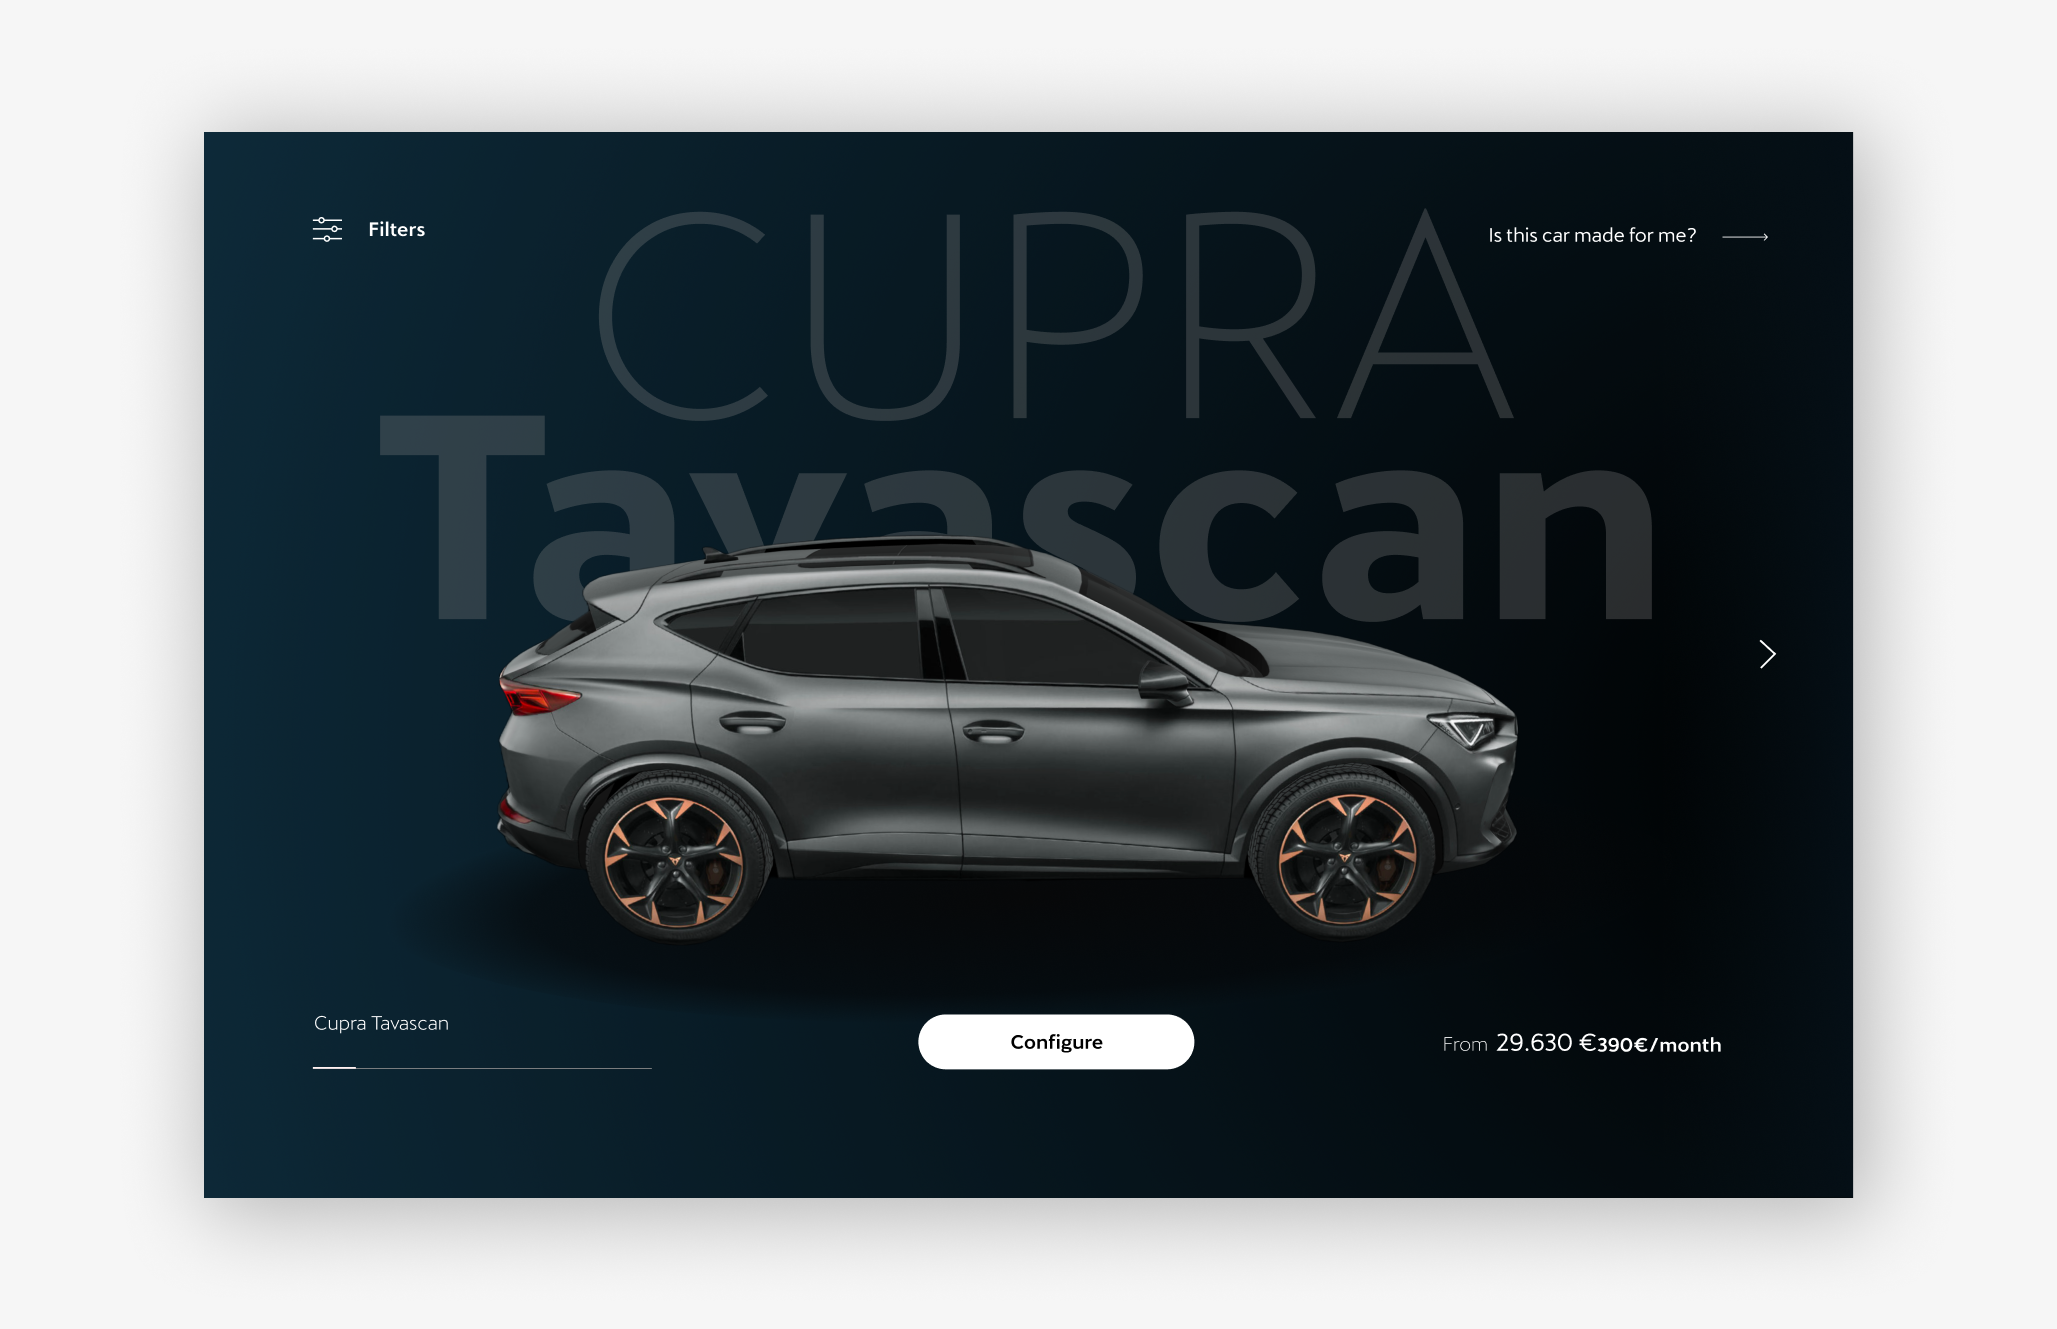
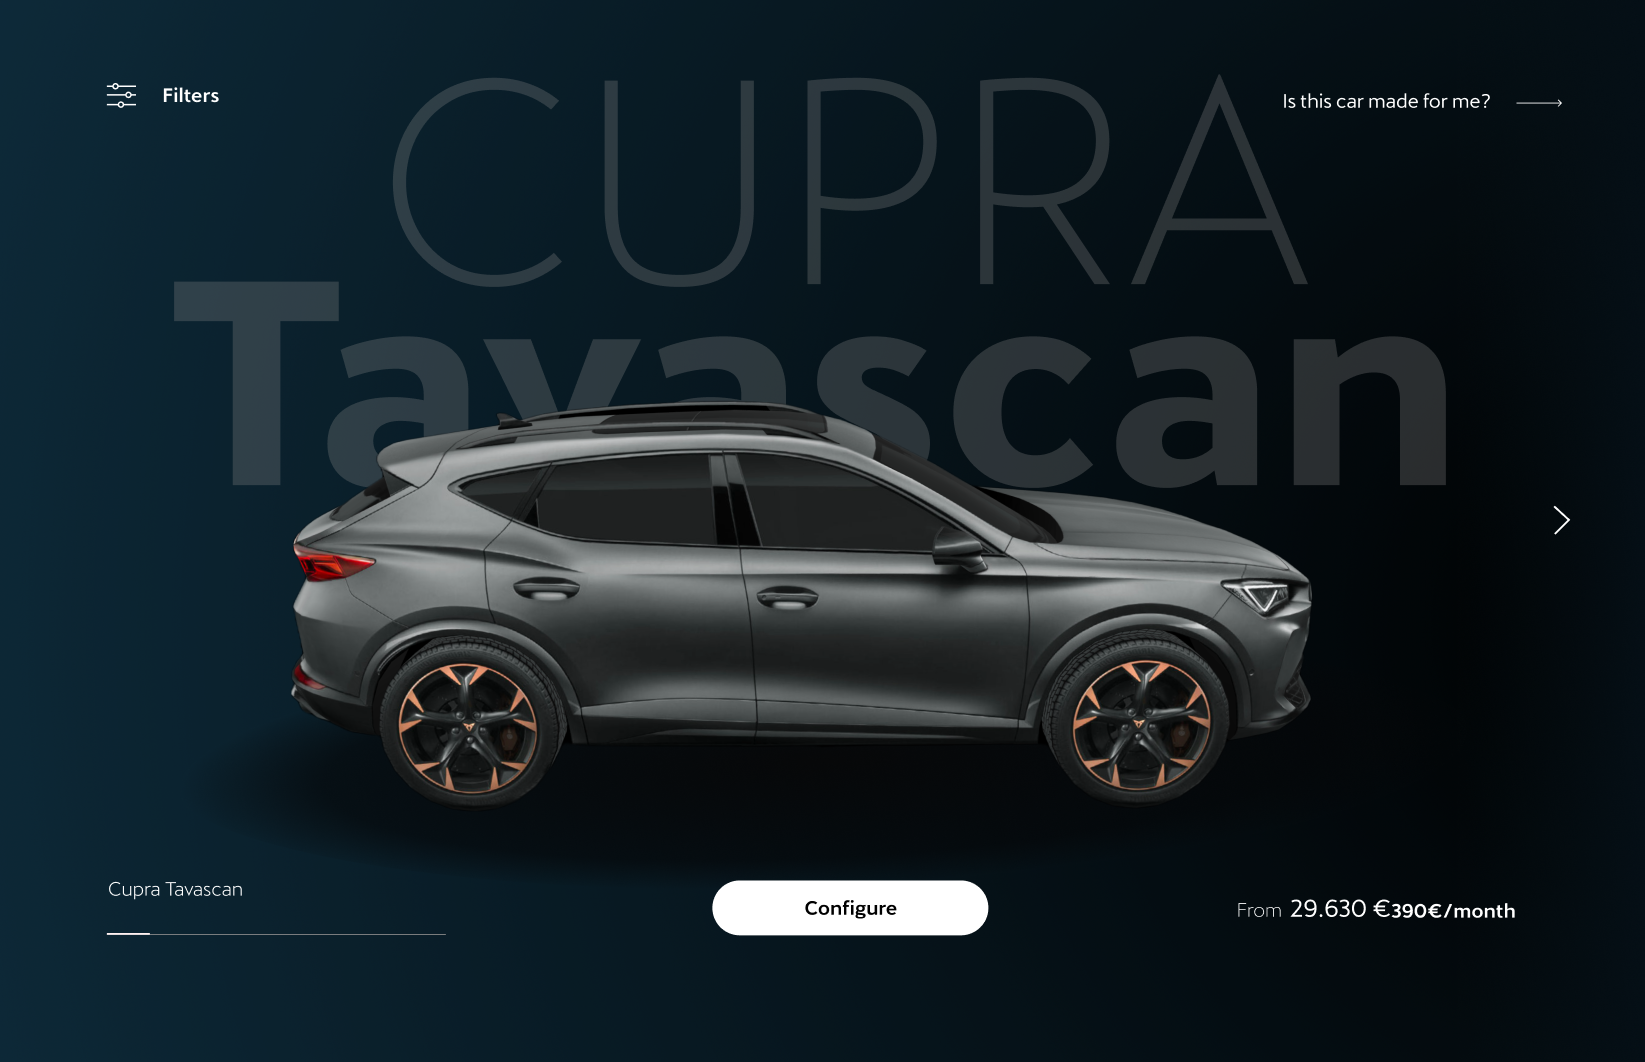
Rewrite Cupra case storytelling and crop configurator frames.
Give the Cupra page a clear narrative across configurator, SEAT and City Garage, fold the vehicle vision into Cupra HUX, and remove the white borders from the configurator screens.

diff --git a/content/cases/index.ts b/content/cases/index.ts
@@ -258,6 +258,27 @@ export const caseStudies: CaseStudy[] = [
       },
       {
         type: "text",
+        eyebrow: "Future vehicle",
+        heading: "A cabin built around instinct",
+        body: [
+          "The task was not to redesign the car, but to reimagine the role it plays in people’s lives — orchestrating emotion, performance and technology into a cohesive ecosystem.",
+          "Inside the vehicle, the experience is distilled into clear forms: a sculpted console, warm copper light, and a crystalline interface that feels like an extension of Cupra’s instinctive character.",
+        ],
+      },
+      {
+        type: "image",
+        src: "/work/cupra-hux/vehicle-exterior.jpg",
+        alt: "Cupra future vehicle exterior in a dark studio",
+        caption: "Exterior",
+      },
+      {
+        type: "image",
+        src: "/work/cupra-hux/vehicle-interior.jpg",
+        alt: "Cupra future vehicle interior with triangular crystal interface",
+        caption: "Interior",
+      },
+      {
+        type: "text",
         eyebrow: "Outcome",
         heading: "Innovation and emotion, told as one journey",
         body: [
@@ -294,11 +315,11 @@ export const caseStudies: CaseStudy[] = [
   {
     slug: "cupra",
     number: "03",
-    title: "Cupra / SEAT Digital Platforms",
+    title: "Cupra Car Configurator",
     shortTitle: "Cupra",
     client: "Cupra / Seat Digital Platforms",
     year: "2023",
-    tagline: "Sculpting a performance brand across its digital ecosystem",
+    tagline: "Reimagining the future of Cupra’s digital experiences",
     cover: "/work/cupra/configurator-1.png",
     accent: "#c9a227",
     theme: "dark",
@@ -308,11 +329,11 @@ export const caseStudies: CaseStudy[] = [
       "UX/UI Design",
       "Visual Design",
     ],
-    details: ["Frog Design", "3 people team", "1 year duration"],
+    details: ["Frog Design", "3 people team", "1.5 year collaboration"],
     intro: [
-      "Initially, our approach involved aligning with digital platforms, conducting field interviews, benchmarking exercises, and conducting a comprehensive brand audit. These efforts were aimed at gaining a deeper understanding of the business landscape and identifying opportunities for innovation.",
-      "The overarching goal of the project was to reimagine and ideate strategic touchpoints within the brand's digital journey. This entailed identifying areas for enhancement in the current digital ecosystem, conceptualizing ways to elevate the brand experience, and creating cohesive narratives across touchpoints.",
-      "Beyond the pursuit of pixel-perfection, this project represented an opportunity to push boundaries, experiment with new ideas, and digitally sculpt the brand's identity to align with its aspiration of being perceived as innovative, youthful, and forward-thinking.",
+      "What could Cupra feel like online if it dared to push its own boundaries? That was the question behind a year and a half of collaboration with Cupra’s digital teams.",
+      "We travelled across the brand’s web touchpoints — the Cupra and SEAT car configurators, Car World and the Cupra City Garage website — looking at each one with fresh eyes and asking how the experience could be better.",
+      "We were never there to build a new website, or to chase pixel perfection. Our role was to open doors: to show Cupra what becomes possible when a brand this bold lets its digital experiences be just as bold.",
     ],
     media: [
       {
@@ -322,49 +343,97 @@ export const caseStudies: CaseStudy[] = [
         alt: "Cupra digital platform motion preview",
       },
       {
+        type: "text",
+        eyebrow: "The approach",
+        heading: "Side by side with the people behind the product",
+        body: [
+          "For eighteen months we worked closely with the product owner of every part of the ecosystem. We listened to their ambitions, their frustrations and the ideas they had never had the time to explore.",
+          "Then we turned those ideas into something tangible — concepts they could see, click through and share inside the organisation. Not specifications, but provocations: a clear picture of where each product could go next.",
+        ],
+      },
+      {
+        type: "text",
+        eyebrow: "01 — Cupra Car Configurator",
+        heading: "From a form to fill in, to a car you want to drive",
+        body: [
+          "The configurator is where desire becomes a decision. We imagined it less as a list of options and more as a showroom: the car centre stage, the name written large behind it, and one clear invitation to begin.",
+        ],
+      },
+      {
         type: "image",
         src: "/work/cupra/configurator-1.png",
-        alt: "Cupra Tavascan configurator interface",
+        alt: "Cupra Tavascan configurator entry screen",
+      },
+      {
+        type: "text",
+        heading: "Every choice, felt instantly",
+        body: [
+          "Version, colour, packs and payment live around the car instead of in a long scrolling page. Each decision changes what you see straight away, and the monthly price stays honest and visible at every step.",
+        ],
       },
       {
         type: "image",
         src: "/work/cupra/configurator-2.png",
-        alt: "Cupra digital platform UI exploration",
+        alt: "Cupra Tavascan configurator payment step",
       },
       {
         type: "image",
         src: "/work/cupra/configurator-wide.png",
-        alt: "Cupra configurator wide layout",
+        alt: "Cupra Tavascan immersive configurator with hotspots",
+        caption: "Configuring directly on the car",
+      },
+      {
+        type: "image",
+        src: "/work/cupra/studies-1.png",
+        alt: "Cupra Tavascan configurator on mobile",
+        caption: "The same experience, in your pocket",
+      },
+      {
+        type: "text",
+        eyebrow: "02 — SEAT Configurator",
+        heading: "Same thinking, a different personality",
+        body: [
+          "SEAT speaks to a different driver: practical, warm, closer to everyday life. We kept the clarity of the Cupra concept but gave it SEAT’s own voice — lighter, friendlier and built for mobile first.",
+          "Motor, colour, wheels, interior and extras became a simple visual journey, with the price building up transparently until the very last tap.",
+        ],
+      },
+      {
+        type: "image",
+        src: "/work/cupra/studies-2.png",
+        alt: "SEAT León mobile configurator flow",
+        caption: "SEAT León configurator",
+      },
+      {
+        type: "text",
+        eyebrow: "03 — Cupra City Garage",
+        heading: "A digital door to a physical place",
+        body: [
+          "Cupra City Garages are not dealerships — they are spaces to meet the brand, its community and its culture. Online, they deserved more than an address and opening hours.",
+          "We imagined each garage’s website as a living extension of the space: upcoming events, the people who run it, the community around it, and a window onto every City Garage around the world.",
+        ],
+      },
+      {
+        type: "image",
+        src: "/work/cupra/studies-3.png",
+        alt: "Cupra City Garage website concept",
+        caption: "Cupra City Garage",
       },
       {
         type: "video",
         src: "/work/cupra/preview.mp4",
         poster: "/work/cupra/preview-poster.jpg",
         alt: "Cupra project preview video",
-        caption: "Preview",
         controls: true,
       },
       {
-        type: "image",
-        src: "/work/cupra/studies-1.png",
-        alt: "Seat Configurator exploration",
-        caption: "Seat Configurator exploration",
-      },
-      {
-        type: "image",
-        src: "/work/cupra/studies-2.png",
-        alt: "Cupra E-configurator",
-        caption: "Cupra E-configurator",
-      },
-      {
-        type: "image",
-        src: "/work/cupra/studies-3.png",
-        alt: "Cupra City Garage",
-        caption: "Cupra City Garage",
+        type: "text",
+        eyebrow: "Outcome",
+        heading: "A glimpse of what’s possible",
+        body: [
+          "Together, these concepts gave every product team a shared vision to rally around — a north star showing how far Cupra’s digital experience could go when it is as fearless as its cars.",
+        ],
       },
     ],
-    footerNote:
-      "Throughout the year-long collaboration, I was deeply involved in shaping various digital products within the web ecosystem, including the Cupra Car Configurator, Seat Car Configurator, the Car World, Cupra City Garage, among others. — If you want to know more info, please contact me :) *These projects are confidential.",
     nextSlug: "correos-express",
   },
   {
